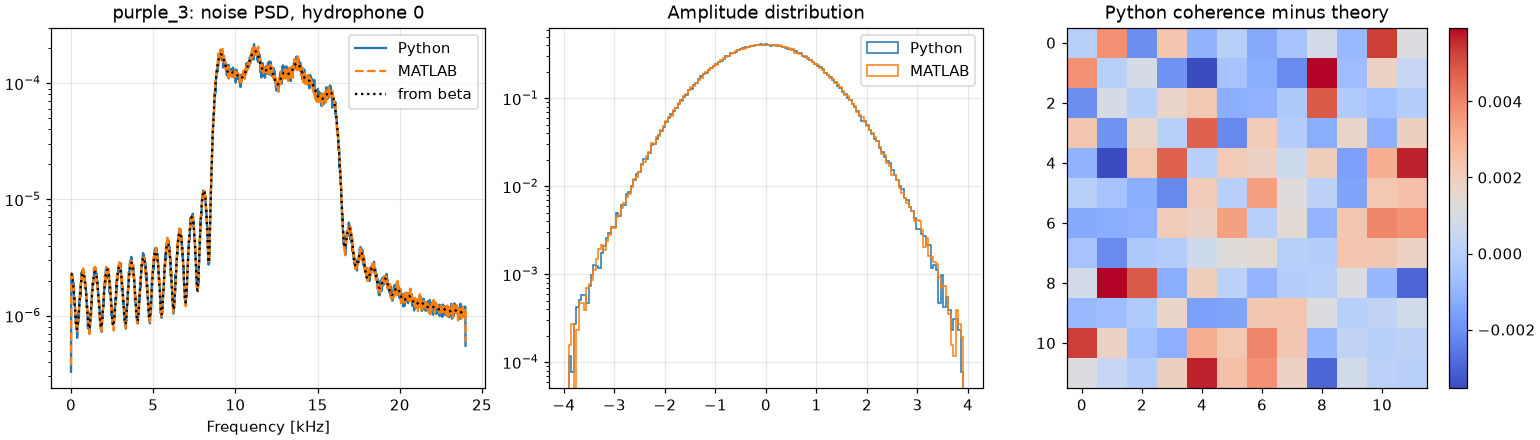
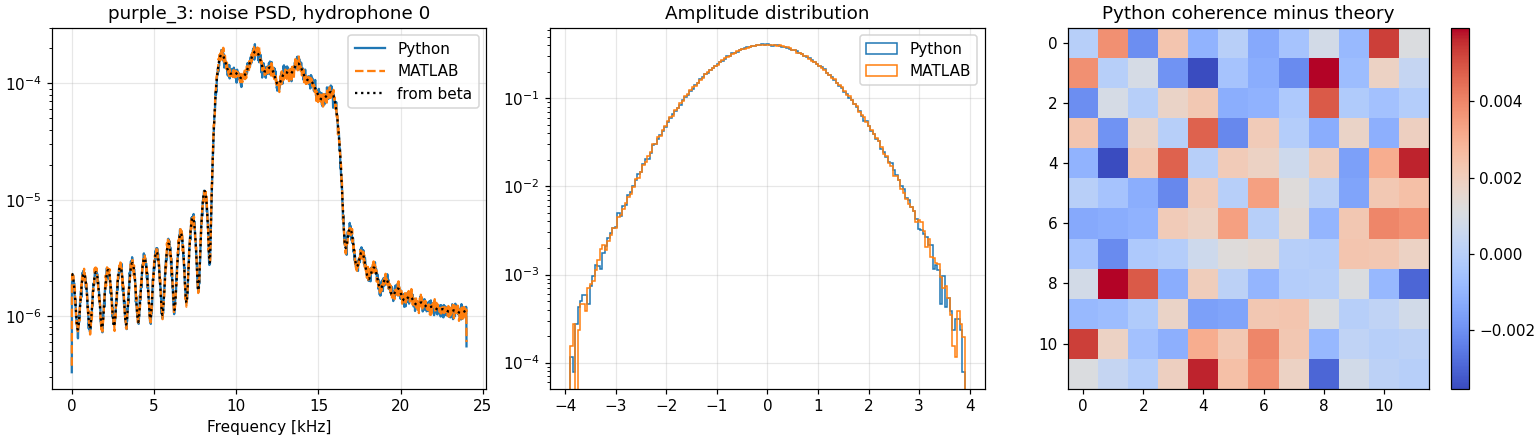
Check that Python and MATLAB return the same replay length, and drop the misaligned curve from the replay figure
Both toolboxes now pad replay's output by the largest delay the drift
reaches, measured from the starting sample, so the lengths match and are
checked.  The README no longer explains MATLAB's old 20-sample buffer.  The
one-sample-offset check stays in the table; its curve in the figure did not
help read the comparison.  REPORT.md and the figures are regenerated.

Claude-Session: https://claude.ai/code/session_01YAwPvmgJaj6k2d7LQw66aU

diff --git a/compare.py b/compare.py
@@ -117,10 +117,13 @@ def compare_replay(case, cfg):
     say()
     say(f"Python start {int(py['start'].ravel()[0])}, MATLAB start "
         f"{int(py['start'].ravel()[0]) + 1}, hydrophones {idx} (0-based).  "
-        f"Python returns {py['y'].shape[0]} samples, MATLAB {ml['y'].shape[0]} "
-        f"(MATLAB's `buffer = 20`, resampled by q/p).  The comparison uses the "
-        f"common interior, dropping {margin} samples at each end.")
+        f"Python returns {py['y'].shape[0]} samples, MATLAB {ml['y'].shape[0]}.  "
+        f"The comparison uses the common interior, dropping {margin} samples at "
+        f"each end.")
     say()
+    n_diff = abs(py["y"].shape[0] - ml["y"].shape[0])
+    check(f"{name}: replay output length, Python minus MATLAB", n_diff, 0,
+          n_diff == 0, "samples")
     say("| what is compared | NMSE | reading |")
     say("|---|---|---|")
 
@@ -157,7 +160,6 @@ def compare_replay(case, cfg):
               tol["replay_lag_samples"], lag <= tol["replay_lag_samples"], "samples")
 
     a, b = trim(py["y"][:, 0], ml["y"][:, 0], margin)
-    ao, bo = trim(py["y"][:, 0], ml["y_same_start"][:, 0], margin)
     n0 = len(a) // 2
     fig, ax = plt.subplots(2, 1, figsize=(9, 6), constrained_layout=True)
     ax[0].plot(a[n0:n0 + 400], label="Python", lw=1.2)
@@ -165,17 +167,14 @@ def compare_replay(case, cfg):
     ax[0].set_title(f"{name}: replay, hydrophone {idx[0]}, 400 samples mid-record")
     ax[0].set_xlabel("Sample"); ax[0].legend(); ax[0].grid(alpha=0.3)
     ref = 20 * np.log10(np.abs(a).max())
-    ax[1].plot(20 * np.log10(np.abs(ao - bo) + 1e-300) - ref, lw=0.6,
-               label="deliberately misaligned")
-    ax[1].plot(20 * np.log10(np.abs(a - b) + 1e-300) - ref, lw=0.6, label="aligned")
+    ax[1].plot(20 * np.log10(np.abs(a - b) + 1e-300) - ref, lw=0.6)
     ax[1].set_ylim(-320, 0); ax[1].set_xlabel("Sample")
     ax[1].set_title("Python minus MATLAB, dB relative to peak")
-    ax[1].legend(); ax[1].grid(alpha=0.3)
+    ax[1].grid(alpha=0.3)
     fig.savefig(FIGURES / f"replay_{name}.png", dpi=110)
     plt.close(fig)
     embed(f"replay_{name}",
-          f"{name}: replay waveforms, and Python minus MATLAB against the "
-          "deliberately misaligned pair")
+          f"{name}: replay waveforms, and Python minus MATLAB")
 
 
 # ---------------------------------------------------------------------------

diff --git a/REPORT.md b/REPORT.md
@@ -6,16 +6,16 @@ Files from Zenodo record [21287414](https://doi.org/10.5281/zenodo.21287414).  B
 
 ### Replay (blue_1)
 
-Python start 100000, MATLAB start 100001, hydrophones [0, 3, 7] (0-based).  Python returns 31748 samples, MATLAB 31846 (MATLAB's `buffer = 20`, resampled by q/p).  The comparison uses the common interior, dropping 200 samples at each end.
+Python start 100000, MATLAB start 100001, hydrophones [0, 3, 7] (0-based).  Python returns 31748 samples, MATLAB 31748.  The comparison uses the common interior, dropping 200 samples at each end.
 
 | what is compared | NMSE | reading |
 |---|---|---|
-| resampler alone, no channel | **-259 dB** | `resample` and `resample_poly` build the same filter |
+| resampler alone, no channel | **-258 dB** | `resample` and `resample_poly` build the same filter |
 | replay, tracking removed | **-234 dB** | `h_hat` layout, spline interpolation, convolution, both resamplings and the up-conversion agree to the last bit |
-| replay, tracking active | **-233 dB** | the delay/phase trajectory agrees too |
-| ditto, MATLAB given `start` not `start+1` | **-60 dB** | a deliberate misalignment, to show the comparison resolves one |
+| replay, tracking active | **-234 dB** | the delay/phase trajectory agrees too |
+| ditto, MATLAB given `start` not `start+1` | **-61 dB** | a deliberate misalignment, to show the comparison resolves one |
 
-![blue_1: replay waveforms, and Python minus MATLAB against the deliberately misaligned pair](figures/replay_blue_1.png)
+![blue_1: replay waveforms, and Python minus MATLAB](figures/replay_blue_1.png)
 
 ### Unpack (blue_1)
 
@@ -52,16 +52,16 @@ The last row is the control: `beta` is not symmetric in (i, j), so an implementa
 
 ### Replay (purple_3)
 
-Python start 100000, MATLAB start 100001, hydrophones [0, 8, 16] (0-based).  Python returns 31280 samples, MATLAB 31353 (MATLAB's `buffer = 20`, resampled by q/p).  The comparison uses the common interior, dropping 200 samples at each end.
+Python start 100000, MATLAB start 100001, hydrophones [0, 8, 16] (0-based).  Python returns 31280 samples, MATLAB 31280.  The comparison uses the common interior, dropping 200 samples at each end.
 
 | what is compared | NMSE | reading |
 |---|---|---|
-| resampler alone, no channel | **-261 dB** | `resample` and `resample_poly` build the same filter |
+| resampler alone, no channel | **-260 dB** | `resample` and `resample_poly` build the same filter |
 | replay, tracking removed | **-232 dB** | `h_hat` layout, spline interpolation, convolution, both resamplings and the up-conversion agree to the last bit |
 | replay, tracking active | **-232 dB** | the delay/phase trajectory agrees too |
 | ditto, MATLAB given `start` not `start+1` | **-58 dB** | a deliberate misalignment, to show the comparison resolves one |
 
-![purple_3: replay waveforms, and Python minus MATLAB against the deliberately misaligned pair](figures/replay_purple_3.png)
+![purple_3: replay waveforms, and Python minus MATLAB](figures/replay_purple_3.png)
 
 ### Unpack (purple_3)
 
@@ -98,10 +98,11 @@ The last row is the control: `beta` is not symmetric in (i, j), so an implementa
 
 | check | value | tolerance | |
 |---|---|---|---|
-| blue_1: resampler control | -258.6 dB | -200 dB | pass |
+| blue_1: replay output length, Python minus MATLAB | 0 samples | 0 samples | pass |
+| blue_1: resampler control | -258 dB | -200 dB | pass |
 | blue_1: replay with no tracking | -233.6 dB | -200 dB | pass |
-| blue_1: replay with tracking | -233.3 dB | -200 dB | pass |
-| blue_1: one-sample offset is detected | 60.14 dB | 100 dB | pass |
+| blue_1: replay with tracking | -233.6 dB | -200 dB | pass |
+| blue_1: one-sample offset is detected | 61.37 dB | 100 dB | pass |
 | blue_1: replay lag, hydrophone 0 | 0 samples | 0 samples | pass |
 | blue_1: replay lag, hydrophone 3 | 0 samples | 0 samples | pass |
 | blue_1: replay lag, hydrophone 7 | 0 samples | 0 samples | pass |
@@ -118,14 +119,15 @@ The last row is the control: `beta` is not symmetric in (i, j), so an implementa
 | blue_1: coherence, MATLAB vs theory | 0.002401  | 0.03  | pass |
 | blue_1: closer to beta than to its transpose (Python) | 0.00207  | 0.1402  | pass |
 | blue_1: closer to beta than to its transpose (MATLAB) | 0.002401  | 0.1403  | pass |
-| purple_3: resampler control | -260.7 dB | -200 dB | pass |
+| purple_3: replay output length, Python minus MATLAB | 0 samples | 0 samples | pass |
+| purple_3: resampler control | -259.7 dB | -200 dB | pass |
 | purple_3: replay with no tracking | -232.1 dB | -200 dB | pass |
 | purple_3: replay with tracking | -232.1 dB | -200 dB | pass |
 | purple_3: one-sample offset is detected | 57.5 dB | 100 dB | pass |
 | purple_3: replay lag, hydrophone 0 | 0 samples | 0 samples | pass |
 | purple_3: replay lag, hydrophone 8 | 0 samples | 0 samples | pass |
 | purple_3: replay lag, hydrophone 16 | 0 samples | 0 samples | pass |
-| purple_3: unpack without f_resamp | -298.3 dB | -200 dB | pass |
+| purple_3: unpack without f_resamp | -298.2 dB | -200 dB | pass |
 | purple_3: unpack with f_resamp | -264.3 dB | -200 dB | pass |
 | purple_3: f_resamp actually does something | -1.138 dB | 20 dB | pass |
 | purple_3: noise std, max relative difference | 0.006694  | 0.02  | pass |
@@ -139,4 +141,4 @@ The last row is the control: `beta` is not symmetric in (i, j), so an implementa
 | purple_3: closer to beta than to its transpose (Python) | 0.002273  | 0.1075  | pass |
 | purple_3: closer to beta than to its transpose (MATLAB) | 0.002695  | 0.1076  | pass |
 
-40 of 40 checks pass.
+42 of 42 checks pass.

diff --git a/README.md b/README.md
@@ -58,10 +58,9 @@ unpacked output at all.  Without them, a comparison too blunt to resolve a
 single sample, or one passing because a code path did nothing, would report
 success.
 
-One difference is reported rather than flagged: MATLAB's `replay` returns 98
-more samples than Python's for the same input, because it allocates
-`T + buffer + L` with `buffer = 20` where Python allocates `T + L`.  It
-changes no sample they have in common.
+Both return the same number of samples from `replay`, which is checked: each
+pads the output by the largest delay drift in the replay window, measured from
+the starting sample.
 
 ## What it covers
 
